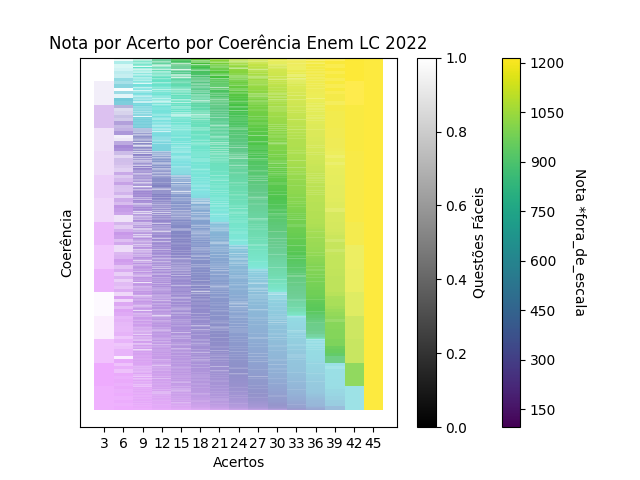
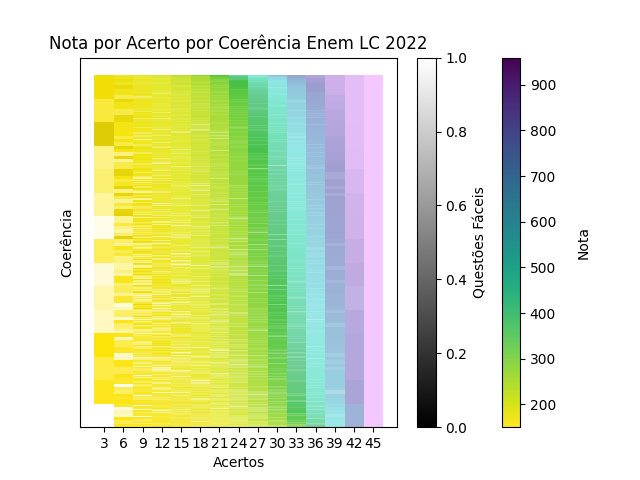
Notas Exatas!

diff --git a/mapa.py b/mapa.py
@@ -8,7 +8,6 @@ def criar(agrupamento, Csi, nquest=45, randomico=False):
     from matplotlib.colors import Normalize, to_rgb
     grupo = agrupamento
     Csi = [Csi,[[random.random(), random.random(), random.random()/4+0.1] for i in range(int(45/grupo))]][randomico]
-
     mapa = []
     quest = int(nquest/grupo)
     for i in range(quest):
@@ -43,8 +42,10 @@ def criar(agrupamento, Csi, nquest=45, randomico=False):
     for j in mapa:
         maximo = max(max(i[0] for i in j),maximo)
         minimo = min(min(i[0] for i in j),minimo)
+    print(maximo)
+    print(minimo)
     norm = Normalize(vmin=minimo, vmax=maximo)
-    tamanho = -10
+    tamanho = 10
     # Para cada sub-lista em 'mapa'
     for i, sub_lista in enumerate(mapa):
         # Inicializa a base para o 'empilhamento' dos segmentos
@@ -68,16 +69,16 @@ def criar(agrupamento, Csi, nquest=45, randomico=False):
     ax.set_xlabel('Acertos')
 
     # Cria o ScalarMappable e inicializa com o colormap e o objeto Normalize
-    sm = cm.ScalarMappable(cmap=cmap, norm=norm)
-    sm.set_array([])  # Você pode precisar definir o array se não estiver plotando qualquer mappable.
+    sm = cm.ScalarMappable(cmap=plt.cm.viridis_r, norm=norm)
+    sm.set_array(np.arange(int(maximo), int(minimo), 150))  # Você pode precisar definir o array se não estiver plotando qualquer mappable.
 
     # Adiciona a barra de cores ao gráfico, associada ao eixo ax
     cbar = plt.colorbar(sm, ax=ax)
-    ticks = np.arange(0, 3000, 150)
+    # ticks = np.arange(int(maximo), int(minimo), 150)
     # tick_positions = norm(ticks)
     # cbar.set_ticks(tick_positions)
-    cbar.set_ticklabels(ticks)
-    cbar.set_label('Nota *fora_de_escala', rotation=270, labelpad=15)
+    # cbar.set_ticklabels(ticks)
+    cbar.set_label('Nota', rotation=90, labelpad=15)
     plt.title('Nota por Acerto por Coerência Enem LC 2022')
     plt.gca().set_yticks([])
     normm = Normalize(vmin=0, vmax=1)  # Supondo que os valores de brilho variam de 0 a 1

diff --git a/funcoes_base.py b/funcoes_base.py
@@ -1,13 +1,11 @@
 import math
-import random
 import numpy
-import pandas as pd
-import time
-# Csi = [[random.random(), random.random(), random.random()/4+0.1] for i in range(questoes)]
-# X = [1,1,1,1,1,1,1,1,1,1,1,1,1,1,1,1,1,1,1,1,1,1,1,1,1,1,1,1,1,1,1,1,1,1,1,1,1,1,1,1,1,1,1,1,1]
 def nota(X, Csi, questoes=45, pontos_de_quadratura=40):
     def P_x_thetaCsi(theta,a,b,c,x):
-        return [1-c-(1-c)/(1+math.exp(-a*(theta-b))), c+(1-c)/(1+math.exp(a*(theta-b)))][x]
+        p =[1-c-(1-c)/(1+math.exp(a*(theta-b))), c+(1-c)/(1+math.exp(a*(theta-b)))][x]
+        if p<0:
+            print(p,theta,a,b,c,x)
+        return p
     def P_xvec_thetaCsi(x, theta, csi):
         p = 1
         for i in range(questoes):
@@ -18,7 +16,8 @@ def nota(X, Csi, questoes=45, pontos_de_quadratura=40):
         Xq, A = numpy.polynomial.legendre.leggauss(pontos_de_quadratura)
         Xq = [Xq[i] for i in range(len(Xq))]
         for i in range(pontos_de_quadratura):
-            n+=Xq[i]*P_xvec_thetaCsi(x, Xq[i],csi)*A[i]
+            n+=(Xq[i]+1)*500*P_xvec_thetaCsi(x, Xq[i],csi)*A[i]
             d+=P_xvec_thetaCsi(x, Xq[i],csi)*A[i] 
+
         return n/d
     return aproxTheta(X, Csi)
